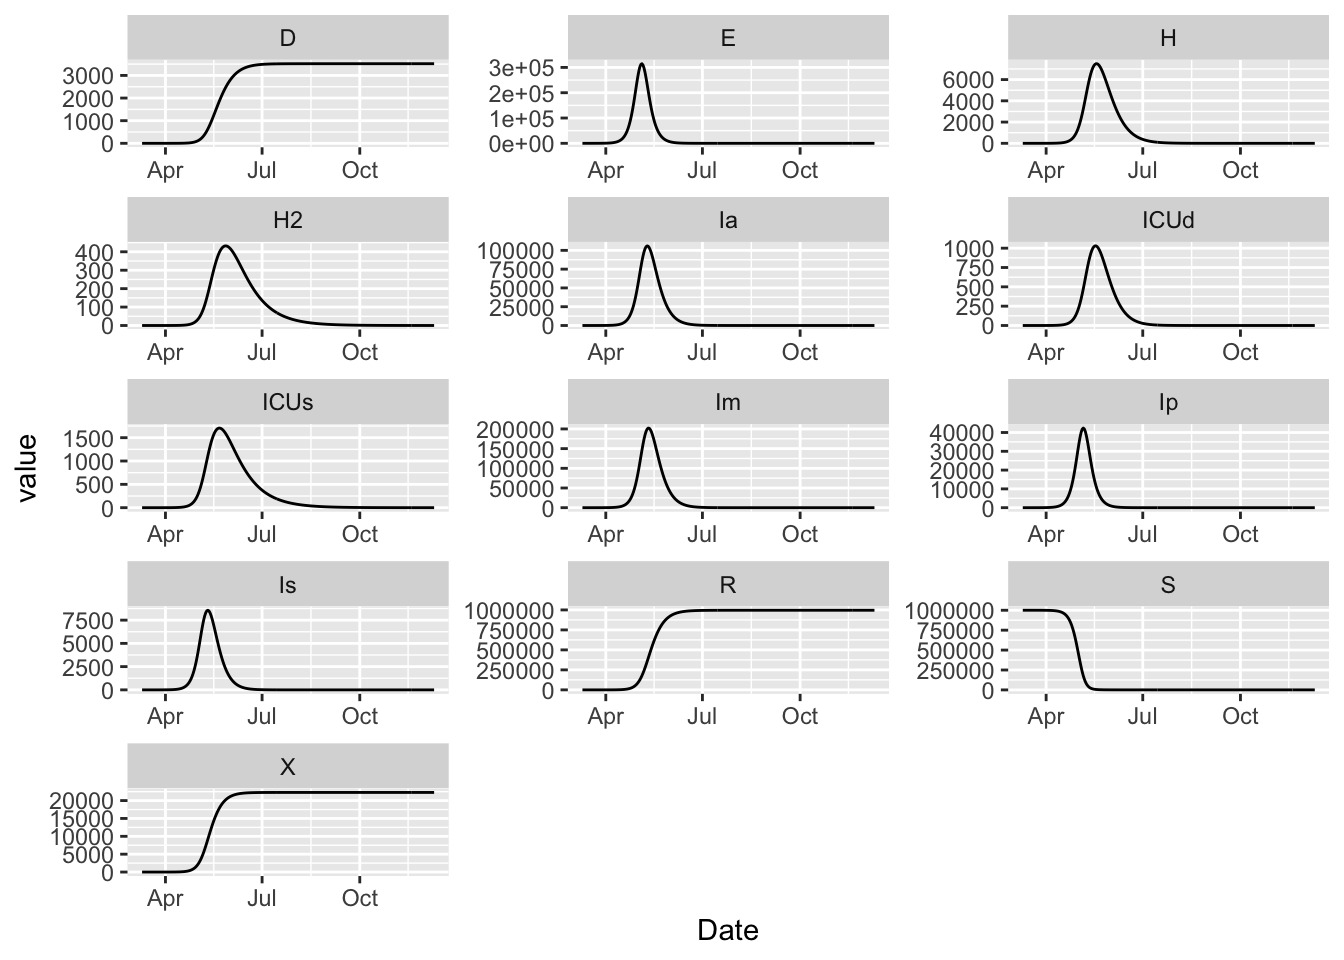
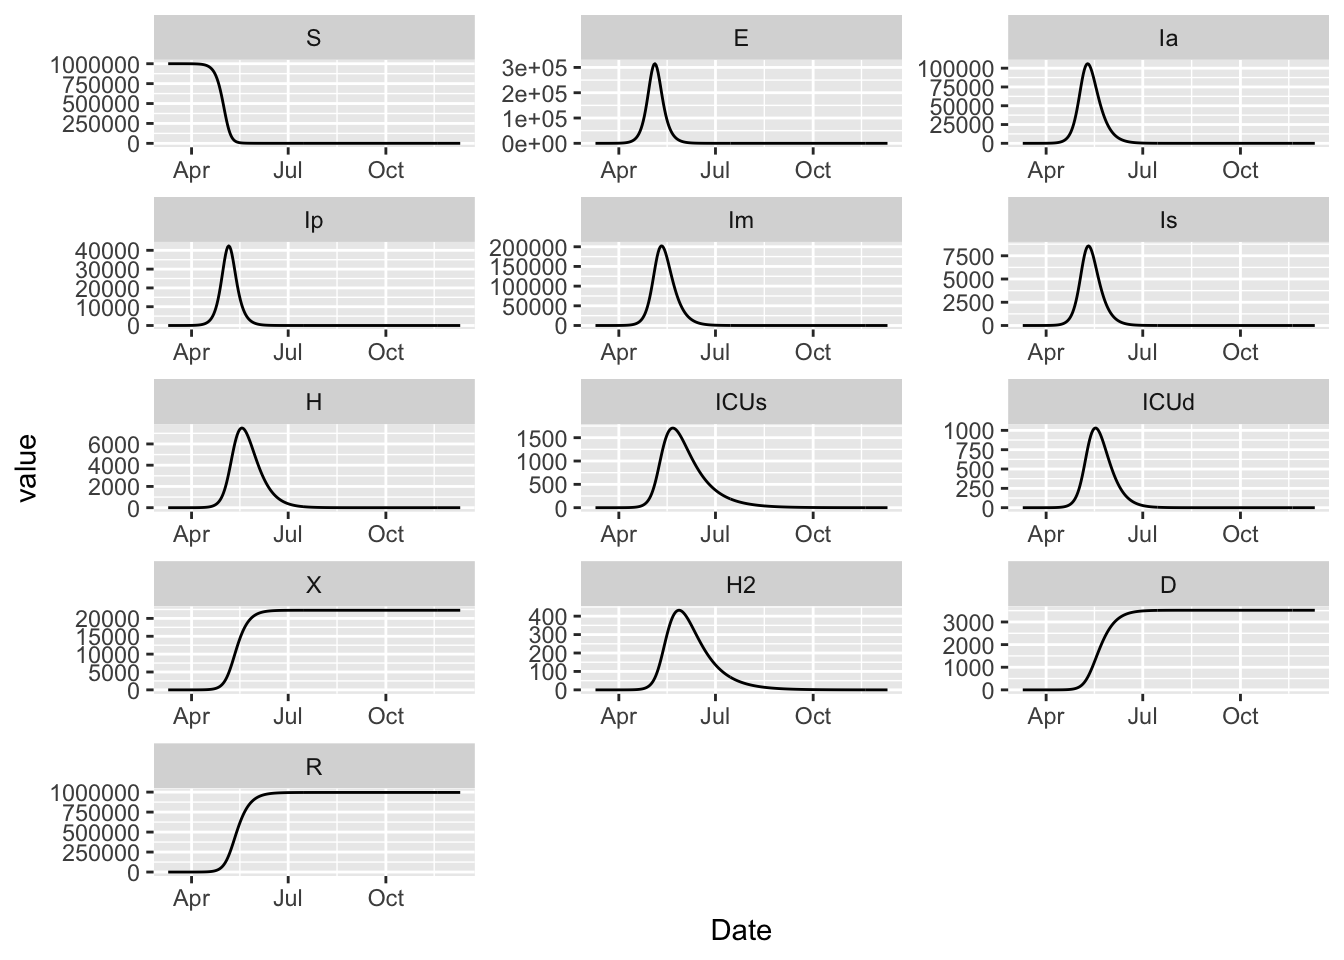
Deploying to main from @ canmod/macpan-book@db5ddc130cc28bd10a3a17f253217a0834b2fb78 🚀

diff --git a/docs/examples.html b/docs/examples.html
@@ -23,7 +23,7 @@
 <meta name="author" content="Steve Walker" />
 
 
-<meta name="date" content="2022-05-05" />
+<meta name="date" content="2022-05-06" />
 
   <meta name="viewport" content="width=device-width, initial-scale=1" />
   <meta name="apple-mobile-web-app-capable" content="yes" />
@@ -220,7 +220,7 @@ code span.wa { color: #60a0b0; font-weight: bold; font-style: italic; } /* Warni
             <section class="normal" id="section-">
 <div id="examples" class="section level1 hasAnchor">
 <h1><span class="header-section-number">13</span> Examples<a href="examples.html#examples" class="anchor-section" aria-label="Anchor link to header"></a></h1>
-<p><a href="https://canmod.net/misc/flex_intro"><img src="https://img.shields.io/static/v1.svg?label=Updated&amp;message=2022-05-05&amp;color=blue" alt="Live Version" /></a></p>
+<p><a href="https://canmod.net/misc/flex_intro"><img src="https://img.shields.io/static/v1.svg?label=Updated&amp;message=2022-05-06&amp;color=blue" alt="Live Version" /></a></p>
 <div class="sourceCode" id="cb44"><pre class="sourceCode r"><code class="sourceCode r"><span id="cb44-1"><a href="examples.html#cb44-1"></a><span class="kw">library</span>(dplyr)</span>
 <span id="cb44-2"><a href="examples.html#cb44-2"></a><span class="kw">library</span>(tidyr)</span>
 <span id="cb44-3"><a href="examples.html#cb44-3"></a><span class="kw">library</span>(lubridate)</span></code></pre></div>
@@ -899,10 +899,11 @@ code span.wa { color: #60a0b0; font-weight: bold; font-style: italic; } /* Warni
 <span id="cb67-35"><a href="examples.html#cb67-35"></a>(model</span>
 <span id="cb67-36"><a href="examples.html#cb67-36"></a>  <span class="op">%&gt;%</span><span class="st"> </span><span class="kw">simulate_state_vector</span>(<span class="dt">add_dates =</span> <span class="ot">TRUE</span>)</span>
 <span id="cb67-37"><a href="examples.html#cb67-37"></a>  <span class="op">%&gt;%</span><span class="st"> </span><span class="kw">pivot_longer</span>(<span class="op">!</span>Date)</span>
-<span id="cb67-38"><a href="examples.html#cb67-38"></a>  <span class="op">%&gt;%</span><span class="st"> </span><span class="kw">ggplot</span>()</span>
-<span id="cb67-39"><a href="examples.html#cb67-39"></a>   <span class="op">+</span><span class="st">  </span><span class="kw">facet_wrap</span>(<span class="op">~</span><span class="st"> </span>name, <span class="dt">scales =</span> <span class="st">&#39;free&#39;</span>, <span class="dt">ncol =</span> <span class="dv">3</span>)</span>
-<span id="cb67-40"><a href="examples.html#cb67-40"></a>   <span class="op">+</span><span class="st">  </span><span class="kw">geom_line</span>(<span class="kw">aes</span>(Date, value))</span>
-<span id="cb67-41"><a href="examples.html#cb67-41"></a>)</span></code></pre></div>
+<span id="cb67-38"><a href="examples.html#cb67-38"></a>  <span class="op">%&gt;%</span><span class="st"> </span><span class="kw">mutate</span>(<span class="dt">name =</span> <span class="kw">factor</span>(name, <span class="dt">levels =</span> <span class="kw">topological_sort</span>(model)))</span>
+<span id="cb67-39"><a href="examples.html#cb67-39"></a>  <span class="op">%&gt;%</span><span class="st"> </span><span class="kw">ggplot</span>()</span>
+<span id="cb67-40"><a href="examples.html#cb67-40"></a>   <span class="op">+</span><span class="st">  </span><span class="kw">facet_wrap</span>(<span class="op">~</span><span class="st"> </span>name, <span class="dt">scales =</span> <span class="st">&#39;free&#39;</span>, <span class="dt">ncol =</span> <span class="dv">3</span>)</span>
+<span id="cb67-41"><a href="examples.html#cb67-41"></a>   <span class="op">+</span><span class="st">  </span><span class="kw">geom_line</span>(<span class="kw">aes</span>(Date, value))</span>
+<span id="cb67-42"><a href="examples.html#cb67-42"></a>)</span></code></pre></div>
 <p><img src="_main_files/figure-html/classic-macpan-1.png" width="672" /></p>
 
 </div>

diff --git a/docs/index.html b/docs/index.html
@@ -23,7 +23,7 @@
 <meta name="author" content="Steve Walker" />
 
 
-<meta name="date" content="2022-05-05" />
+<meta name="date" content="2022-05-06" />
 
   <meta name="viewport" content="width=device-width, initial-scale=1" />
   <meta name="apple-mobile-web-app-capable" content="yes" />
@@ -221,7 +221,7 @@ code span.wa { color: #60a0b0; font-weight: bold; font-style: italic; } /* Warni
 <div id="header">
 <h1 class="title">Generalized McMasterPandemic</h1>
 <p class="author"><em>Steve Walker</em></p>
-<p class="date"><em>2022-05-05</em></p>
+<p class="date"><em>2022-05-06</em></p>
 </div>
 <div id="fast-and-flexible-modelling-with-mcmasterpandemic" class="section level1 hasAnchor">
 <h1><span class="header-section-number">1</span> Fast and Flexible Modelling with McMasterPandemic<a href="index.html#fast-and-flexible-modelling-with-mcmasterpandemic" class="anchor-section" aria-label="Anchor link to header"></a></h1>

diff --git a/docs/404.html b/docs/404.html
@@ -23,7 +23,7 @@
 <meta name="author" content="Steve Walker" />
 
 
-<meta name="date" content="2022-05-05" />
+<meta name="date" content="2022-05-06" />
 
   <meta name="viewport" content="width=device-width, initial-scale=1" />
   <meta name="apple-mobile-web-app-capable" content="yes" />

diff --git a/docs/calibration.html b/docs/calibration.html
@@ -23,7 +23,7 @@
 <meta name="author" content="Steve Walker" />
 
 
-<meta name="date" content="2022-05-05" />
+<meta name="date" content="2022-05-06" />
 
   <meta name="viewport" content="width=device-width, initial-scale=1" />
   <meta name="apple-mobile-web-app-capable" content="yes" />

diff --git a/docs/ensemble-forecasts.html b/docs/ensemble-forecasts.html
@@ -23,7 +23,7 @@
 <meta name="author" content="Steve Walker" />
 
 
-<meta name="date" content="2022-05-05" />
+<meta name="date" content="2022-05-06" />
 
   <meta name="viewport" content="width=device-width, initial-scale=1" />
   <meta name="apple-mobile-web-app-capable" content="yes" />

diff --git a/docs/flow-between-states.html b/docs/flow-between-states.html
@@ -23,7 +23,7 @@
 <meta name="author" content="Steve Walker" />
 
 
-<meta name="date" content="2022-05-05" />
+<meta name="date" content="2022-05-06" />
 
   <meta name="viewport" content="width=device-width, initial-scale=1" />
   <meta name="apple-mobile-web-app-capable" content="yes" />

diff --git a/docs/hazard-smoothing.html b/docs/hazard-smoothing.html
@@ -23,7 +23,7 @@
 <meta name="author" content="Steve Walker" />
 
 
-<meta name="date" content="2022-05-05" />
+<meta name="date" content="2022-05-06" />
 
   <meta name="viewport" content="width=device-width, initial-scale=1" />
   <meta name="apple-mobile-web-app-capable" content="yes" />

diff --git a/docs/other-variables.html b/docs/other-variables.html
@@ -23,7 +23,7 @@
 <meta name="author" content="Steve Walker" />
 
 
-<meta name="date" content="2022-05-05" />
+<meta name="date" content="2022-05-06" />
 
   <meta name="viewport" content="width=device-width, initial-scale=1" />
   <meta name="apple-mobile-web-app-capable" content="yes" />

diff --git a/docs/outflows.html b/docs/outflows.html
@@ -23,7 +23,7 @@
 <meta name="author" content="Steve Walker" />
 
 
-<meta name="date" content="2022-05-05" />
+<meta name="date" content="2022-05-06" />
 
   <meta name="viewport" content="width=device-width, initial-scale=1" />
   <meta name="apple-mobile-web-app-capable" content="yes" />

diff --git a/docs/simple-model-initializtion.html b/docs/simple-model-initializtion.html
@@ -23,7 +23,7 @@
 <meta name="author" content="Steve Walker" />
 
 
-<meta name="date" content="2022-05-05" />
+<meta name="date" content="2022-05-06" />
 
   <meta name="viewport" content="width=device-width, initial-scale=1" />
   <meta name="apple-mobile-web-app-capable" content="yes" />

diff --git a/docs/simulation.html b/docs/simulation.html
@@ -23,7 +23,7 @@
 <meta name="author" content="Steve Walker" />
 
 
-<meta name="date" content="2022-05-05" />
+<meta name="date" content="2022-05-06" />
 
   <meta name="viewport" content="width=device-width, initial-scale=1" />
   <meta name="apple-mobile-web-app-capable" content="yes" />

diff --git a/docs/state-initialization.html b/docs/state-initialization.html
@@ -23,7 +23,7 @@
 <meta name="author" content="Steve Walker" />
 
 
-<meta name="date" content="2022-05-05" />
+<meta name="date" content="2022-05-06" />
 
   <meta name="viewport" content="width=device-width, initial-scale=1" />
   <meta name="apple-mobile-web-app-capable" content="yes" />
